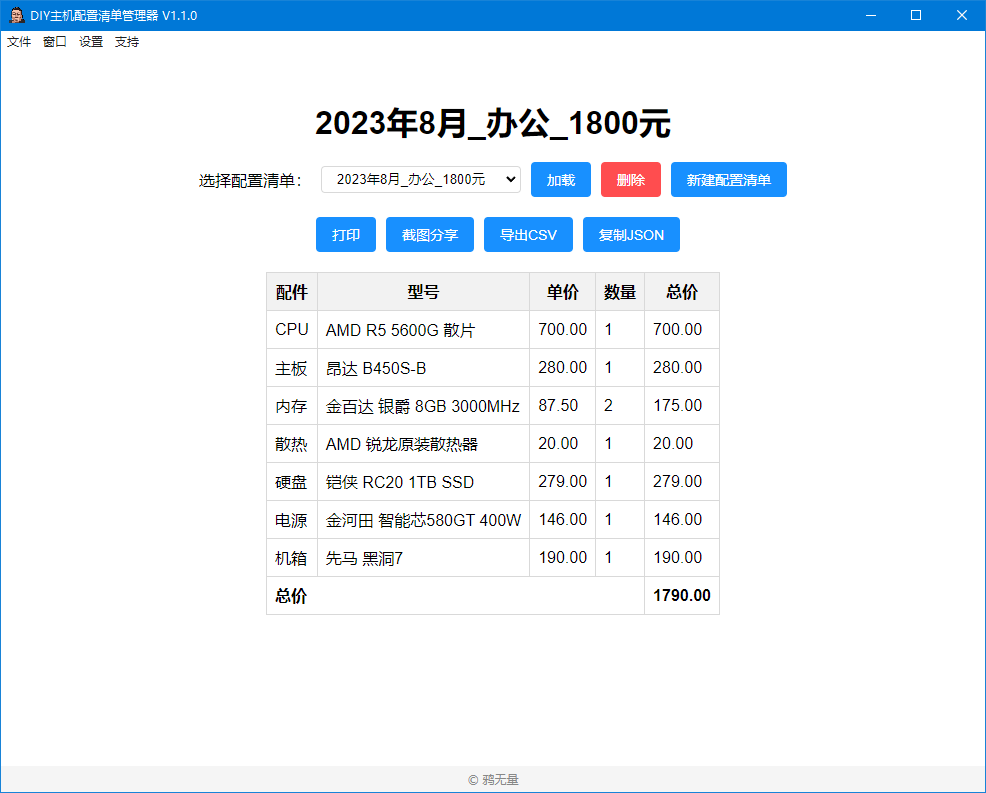
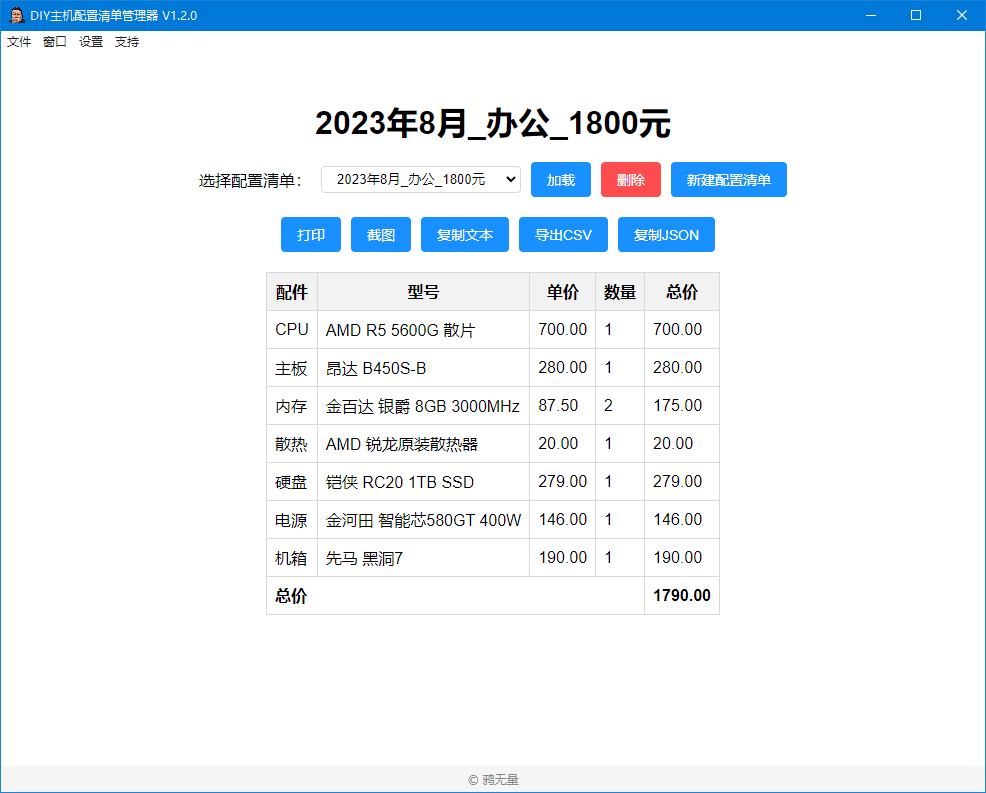
Update V1.2.0

Changed region(s): [[0.2738, 0.2724, 0.7302, 0.3329]]

diff --git a/public/js/index.js b/public/js/index.js
@@ -1,5 +1,55 @@
 var globalConfigData = {}; // 配置清单的JSON数据
 
+// 复制文本
+function copyText() {
+    try {
+        const title = document.getElementById('partsListTitle');
+        const table = document.getElementById('configTable');
+        const rows = table.querySelectorAll('tbody tr');
+        const tfootRow = table.querySelector('tfoot tr');
+        if (rows.length === 0) return;
+
+        let csvContent = title.innerHTML + '\n';
+
+        rows.forEach(row => {
+            const cells = row.querySelectorAll('td');
+            const rowData = Array.from(cells).map((cell, index) => {
+                const cellValue = cell.textContent.trim();
+                return index === 2 ? "×" : index === 3 ? cellValue + "个，" : index === 4 ? Math.round(parseFloat(cellValue)) + "元" : index > 0 ? cellValue : cellValue + '：';
+            });
+            csvContent += rowData.join('') + '\n';
+        });
+
+        const tfootCells = tfootRow.querySelectorAll('td');
+        const tfootData = Array.from(tfootCells).map((cell, index) => {
+            const cellValue = cell.textContent.trim();
+            return index === 1 ? cellValue + "元" : cellValue;
+        });
+        csvContent += tfootData.join('') + '\n';
+
+        const textarea = document.createElement('textarea');
+        textarea.value = csvContent;
+        document.body.appendChild(textarea);
+        textarea.select();
+        const successful = document.execCommand('copy');
+        document.body.removeChild(textarea);
+
+        if (successful) {
+            const copyButton = document.querySelector('.ant-btn[onclick="copyText()"]');
+            copyButton.textContent = '复制成功！';
+            copyButton.disabled = true;
+            setTimeout(function () {
+                copyButton.textContent = '复制文本';
+                copyButton.disabled = false;
+            }, 2000);
+        } else {
+            console.error('浏览器不支持execCommand方法或命令执行失败');
+        }
+    } catch (error) {
+        console.error(error);
+    }
+}
+
 // 截图
 function takeScreenshot() {
     var formContainers = document.querySelectorAll('.form-container');
@@ -12,9 +62,10 @@ function takeScreenshot() {
     // 在截图前插入临时文本
     var tableWrapper = document.querySelector('.ant-table-wrapper');
     var authorText = document.createElement('div');
-    authorText.textContent = '截图来自DIY主机配置清单管理器 V' + version + ' 由鸦无量开发';
+    // authorText.textContent = '截图来自DIY主机配置清单管理器 V' + version + ' 由鸦无量开发';
+    authorText.textContent = '';
     authorText.style.textAlign = 'center';
-    authorText.style.marginTop = '10px';
+    // authorText.style.marginTop = '10px';
     authorText.style.fontSize = '80%';
     authorText.style.color = 'lightgray';
     tableWrapper.insertAdjacentElement('afterend', authorText);
@@ -204,10 +255,12 @@ function loadConfig() {
     var exportButton = document.querySelector('.ant-btn[onclick="exportToCSV()"]');
     var copyButton = document.querySelector('.ant-btn[onclick="copyJSON()"]');
     var screenshotButton = document.querySelector('.ant-btn[onclick="takeScreenshot()"]');
+    var copyTextButton = document.querySelector('.ant-btn[onclick="copyText()"]');
     printButton.disabled = false;
     exportButton.disabled = false;
     copyButton.disabled = false;
     screenshotButton.disabled = false;
+    copyTextButton.disabled = false;
 
     document.querySelector('h1').innerText = filename;
 

diff --git a/public/index.html b/public/index.html
@@ -12,7 +12,7 @@
 
 <body>
     <div id="app">
-        <h1>DIY主机配置清单</h1>
+        <h1 id="partsListTitle">DIY主机配置清单</h1>
 
         <div class="form-container">
             <label for="filename">选择配置清单：</label>
@@ -24,7 +24,8 @@
 
         <div class="form-container">
             <button class="ant-btn" onclick="printTable()" disabled>打印</button>
-            <button class="ant-btn" onclick="takeScreenshot()" disabled>截图分享</button>
+            <button class="ant-btn" onclick="takeScreenshot()" disabled>截图</button>
+            <button class="ant-btn" onclick="copyText()" disabled>复制文本</button>
             <button class="ant-btn" onclick="exportToCSV()" disabled>导出CSV</button>
             <button class="ant-btn" onclick="copyJSON()" disabled>复制JSON</button>
         </div>

diff --git a/public/js/info.js b/public/js/info.js
@@ -1,4 +1,4 @@
-var version = "1.1.0"; // 版本号
+var version = "1.2.0"; // 版本号
 var defaultAuthor = ""; // 默认作者，用于打印配置清单，可以自行修改
 var defaultNote = ""; // 默认备注，用于打印配置清单，可以自行修改
 

diff --git a/README.md b/README.md
@@ -1,97 +1,83 @@
 # DIY主机配置清单管理器（DIY PC Parts Lists Manager）
 
+![主界面](./screenshot/screenshot_1.png)  
+
 欢迎使用DIY主机配置清单管理器！该应用程序是一个基于Electron的项目，用于管理DIY主机配置清单。你可以在本地创建、保存和管理多个配置清单，并且还提供了打印和截图共享功能。  
 
 Welcome to the DIY PC Parts Lists Manager! This application is an Electron-based project designed to manage DIY PC parts lists. You can create, save, and manage multiple parts lists locally, and it also offers printing and screenshot sharing functionalities.  
 
-DIY PCパーツリストマネージャーへようこそ！このアプリケーションはElectronをベースとしたプロジェクトで、DIY PCパーツリストの管理を行います。ローカルで複数のパーツリストを作成、保存、管理することができ、また印刷やスクリーンショット共有の機能も提供しています。  
+已更新至[V1.2.0](#v120)  
 
-已更新至[V1.1.0](#v110)  
+Updated to [V1.2.0](#v120)  
 
-![logo](./public/img/totem.png)
+![logo](./public/img/totem.png)  
 
-## 一、界面
-![主界面](./screenshot/screenshot_1.png)
+## 功能
 
-![新配置清单界面](./screenshot/screenshot_2.png)
+- 加载指定的配置清单（Load the specified parts list）
 
-## 二、功能
-- 显示已有的配置清单
-- 加载指定的配置清单
-- 删除指定的配置清单
-- 创建新的配置清单
-- 计算单个配件的总价格
-- 计算所有配件的总价格
-- 添加或者删除一行配件
-- 调整配件的排列顺序
-- 保存新的配置清单
-- 批量导入配置清单
-- 从单个JSON文件导入新的配置清单
-- 备份（导出）所有配置清单
-- 查看所有配置清单
-- 删除所有配置清单
-- 打印配置清单
-- 创建配置清单的截图
-- 将配置清单导出CSV格式文件
-- 复制配置清单的JSON数据
+- 删除指定的配置清单（Delete the specified parts list）
 
-## 三、如何安装？
-你可以选择在[Releases](https://github.com/Karasukaigan/pc-parts-lists-manager/releases)里直接下载打包好的程序，打开即用，无需安装Node.js和其他依赖。  
+- 创建新的配置清单（Create a new parts list）  
+  ![新配置清单界面](./screenshot/screenshot_2.png)  
 
-如果你有一定Node.js基础，或者想修改一些代码，可以选择从源代码运行。  
+- 计算单个配件的总价格（Calculate the total price of an individual part）
 
-### 获取代码
+- 计算所有配件的总价格（Calculate the total price of all parts）
 
-- 从GitHub克隆项目：
+- 调整配件的排列顺序（Adjust the order of parts in the list）
+
+- 批量导入配置清单（Bulk import parts lists）
+
+- 从JSON文件导入新的配置清单（Import new parts list from JSON file）
+
+- 备份（导出）所有配置清单（Backup (export) all parts lists）
+
+- 打印配置清单（Print the parts list）  
+  你可以在菜单栏的设置里点击“info.js”打开配置文件。修改`defaultAuthor`或者`defaultNote`来改变打印时默认显示的作者和备注信息。  
+
+- 创建配置清单的截图（Generate a screenshot of the parts list）
+
+- 复制配置清单的文本（Copy the text of the parts list）
+
+- 将配置清单导出CSV格式文件（Export the parts list to a CSV format file）
+
+- 复制配置清单的JSON数据（Copy the JSON data of the parts list）
+- ……
+
+## 安装与部署
+你可以选择在[GitHub](https://github.com/Karasukaigan/pc-parts-lists-manager/releases)或者[Gitee](https://gitee.com/karasukaigan/pc-parts-lists-manager/releases)的Releases里直接下载打包好的程序，解压即用，无需安装Node.js和其他依赖。  
+
+你也可以选择从源代码运行。  
+
+- 从GitHub或者Gitee克隆项目：  
   ```
   git clone https://github.com/Karasukaigan/pc-parts-lists-manager.git
   ```  
+  或者  
+  ```
+  git clone https://gitee.com/karasukaigan/pc-parts-lists-manager.git
+  ```  
 
-- 直接下载项目：
-  从[GitHub页面](https://github.com/your-username/pc-parts-lists-manager)点击右上角“Code”按钮，再点击“Download ZIP”下载项目的ZIP压缩包，然后解压到本地目录。  
+- 请确保你已经安装了**Node.js**。如果没有安装，你可以在[Node.js官网](https://nodejs.org/)下载并安装最新版本。
 
-请确保你已经安装了**Node.js**。如果没有安装，你可以在[Node.js官网](https://nodejs.org/)下载并安装最新版本。
+- 进入项目目录后，使用以下命令安装项目的依赖：  
+  ```
+  npm install
+  ```  
 
-### 安装依赖
+- 在安装完所有依赖后，你可以使用以下命令来运行 DIY主机配置清单管理器：  
+  ```
+  npm start
+  ```  
 
-进入项目目录后，使用以下命令安装项目的依赖：
-```
-npm install
-```  
+- 如果你想将DIY主机配置清单管理器打包成可执行文件（exe），以便在其他计算机上使用，可以使用以下命令：  
+  ```
+  npm run package
+  ```  
+  该命令将在项目的`dist/`目录下生成可执行文件。   
 
-### 运行应用
-
-在安装完所有依赖后，你可以使用以下命令来运行DIY主机配置清单管理器：  
-```
-npm start
-```  
-这将启动Electron应用程序，并打开主机配置清单管理器界面。  
-
-### 打包应用
-
-如果你想将DIY主机配置清单管理器打包成可执行文件（exe），以便在其他计算机上使用，可以使用以下命令：
-```
-npm run package
-```  
-该命令将在项目的`dist/`目录下生成可执行文件。
-
-## 四、分享你的配置清单
-
-### 截图分享
-
-点击“加载”按钮加载配置清单之后，点击“截图分享”按钮即可将截图保存至本地。  
-
-![截图分享](./screenshot/screenshot_3.jpg)  
-
-### 打印配置清单
-
-点击“加载”按钮加载配置清单之后，点击“打印”按钮即可选择打印机打印配置清单，或者保存为PDF。  
-
-你可以在菜单栏的设置里点击“info.js”打开配置文件。修改`defaultAuthor`或者`defaultNote`来改变打印时默认显示的作者和备注信息。  
-
-![打印配置清单](./screenshot/screenshot_4.png)  
-
-## 五、版本更新
+## 版本更新
 
 ### V1.1.0<span id="v110"></span>
 
@@ -105,3 +91,13 @@ npm run package
 8. 在新建配置清单页面添加了显示/隐藏JSON按钮
 9. 将新建配置清单时自定义的配置清单名称长度限制提升至50个字符（但依然不建议使用过长的名称）
 10. 在菜单栏添加了设置菜单，便于直接打开main.js和info.js进行修改
+
+### V1.2.0<span id="v120"></span>
+
+1. 添加了“复制文本”按钮，可以当前加载的配置清单一键复制到剪切板，便于分享。
+2. “截图分享”按钮的文本改为“截图”，并且截图不再包含版权信息。
+3. 打包后的EXE文件会显示正确的图标。
+4. 提供“快速开始.json”以便于更快地创建配置清单。
+
+### 待修复的问题（欢迎反馈）
+1. 配置清单名称中包含某些特殊字符会导致该配置清单无法被删除。
